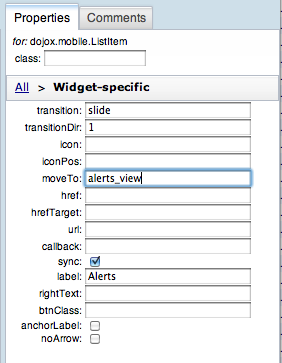
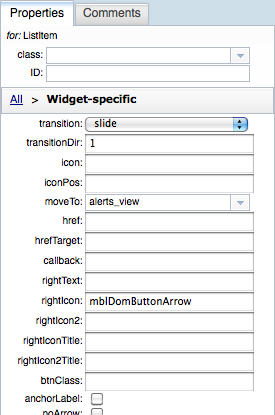
Update mobile tutorial to mention new dropdown menu for moveTo property.

Changed region(s): [[0.0, 0.0, 1.0, 1.0]]

diff --git a/maqetta.core.client/WebContent/docs/tutorials/Mobile_User_Interfaces.html b/maqetta.core.client/WebContent/docs/tutorials/Mobile_User_Interfaces.html
@@ -258,10 +258,9 @@ News</pre>
 	Go to the Properties palette and navigate to the "Widget-Specific" pane.
 	(You might have to first click on the "All" link at the top of the palette
 	and then click on the "Widget-Specific" button.)
-	Enter "alerts_view" as the value of the "moveTo" property and hit Return to commit the value.
-	<div class="note">Make sure that you entered the exact string "alerts_view".
-		The tutorial won't work if the ID is not entered correctly.</div>
-	<p><a href="img/Mobile_MoveTo_Alerts.png" target="_blank"><img alt="image" src="img/Mobile_MoveTo_Alerts.png" style="margin: 1em 1em 0pt 0pt;" height="300" /></a></p>
+	Press on the drop-down menu down arrow icon for the "moveTo" property. 
+	You should see two values listed on the menu: "root_view" and "alerts_view". Choose "alerts_view" from the menu.
+	<p><a href="img/Mobile_MoveTo_Alerts.png" target="_blank"><img alt="image" src="img/Mobile_MoveTo_Alerts.png" style="margin: 1em 1em 0pt 0pt;" height="330" /></a></p>
 	After hitting Return, an arrow icon should appear on the right side of the "Alerts" list item:
 	<p><a href="img/Mobile_MoveTo_Alerts_Arrow.png" target="_blank"><img alt="image" src="img/Mobile_MoveTo_Alerts_Arrow.png" style="margin: 1em 1em 0pt 0pt;" height="175" /></a></p>
 	</li>
@@ -305,10 +304,9 @@ News</pre>
 	(You might have to first click on the "All" link at the top of the palette
 	and then click on the "Widget-Specific" button.)
 	Enter "Home" as the value for the "Back" property and hit Return to commit the value.
-	Enter "root_view" as the value of the "moveTo" property and hit Return to commit the value.
-	<div class="note">Make sure that you entered the exact string "root_view".
-		The tutorial won't work if the ID is not entered correctly.</div>
-	After hitting Return, a button labeled "Home" should appear on the left side of the Heading:
+	Now press on the drop-down menu down arrow icon for the "moveTo" property. 
+	You should see two values listed on the menu: "root_view" and "alerts_view". Choose "root_view" from the menu.
+	After completing these operations, a button labeled "Home" should appear on the left side of the Heading:
 	<p><a href="img/Mobile_MoveTo_Root_Arrow.png" target="_blank"><img alt="image" src="img/Mobile_MoveTo_Root_Arrow.png" style="margin: 1em 1em 0pt 0pt;" height="100" /></a></p>
 	</li>
 <li>Use the Scenes palette to make the first View visible. Click on the View with 'id' of <code>root_view</code> so that you will now
